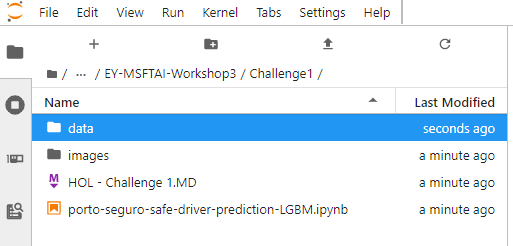
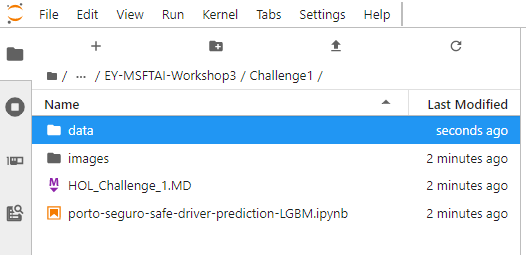
update file extension

diff --git a/Challenge1/HOL_Challenge_1.MD b/Challenge1/HOL_Challenge_1.MD
@@ -124,7 +124,7 @@ As a team, complete the following tasks:
 
     - Clone your foked repo here by typing the command `git clone <forked repo URL>` into the Terminal. 
 
-    !['Create a new Terminal'](/Challenge1/images/challenge1_1gb.PNG)
+    !['Create a new Terminal'](/Challenge1/images/challenge1_1gb.png)
 
 
     - You should see your files uploaded to your Jupyter environment within your Users/{subscription name} folder.
@@ -135,7 +135,7 @@ As a team, complete the following tasks:
 
 1. Once your folders have been uploaded, navigate into the **Challenge 1** folder. Create a **data** folder. 
 
-    !['Create a new Terminal'](/Challenge1/images/challenge1_1gc.PNG)
+    !['Create a new Terminal'](/Challenge1/images/challenge1_1gc.png)
 
     You will find the training data CSV file in the Files tab within the Microsoft Teams site, called **porto_seguro_safe_driver_prediction_input.csv**
 
